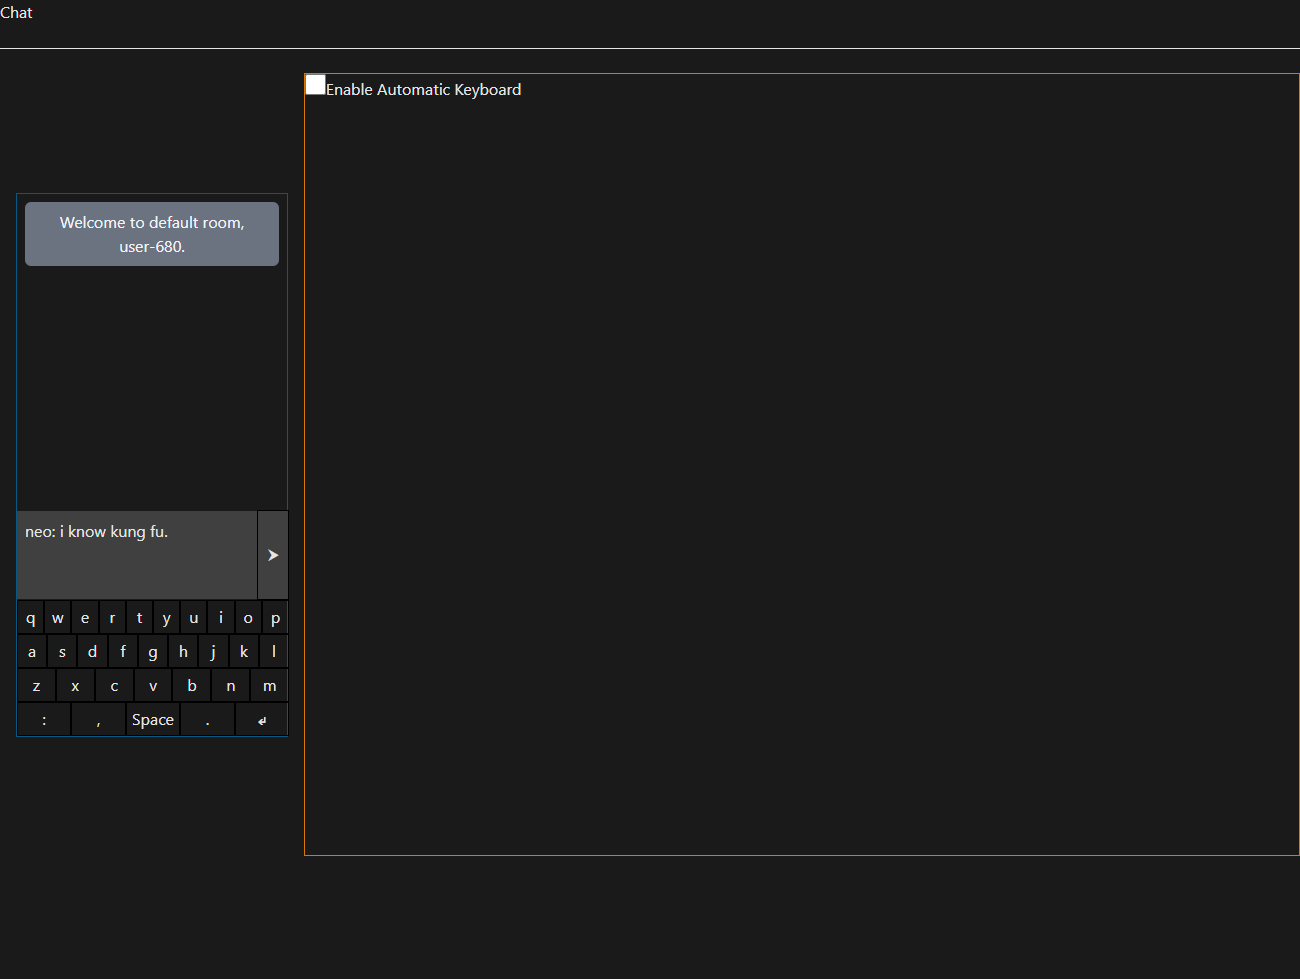
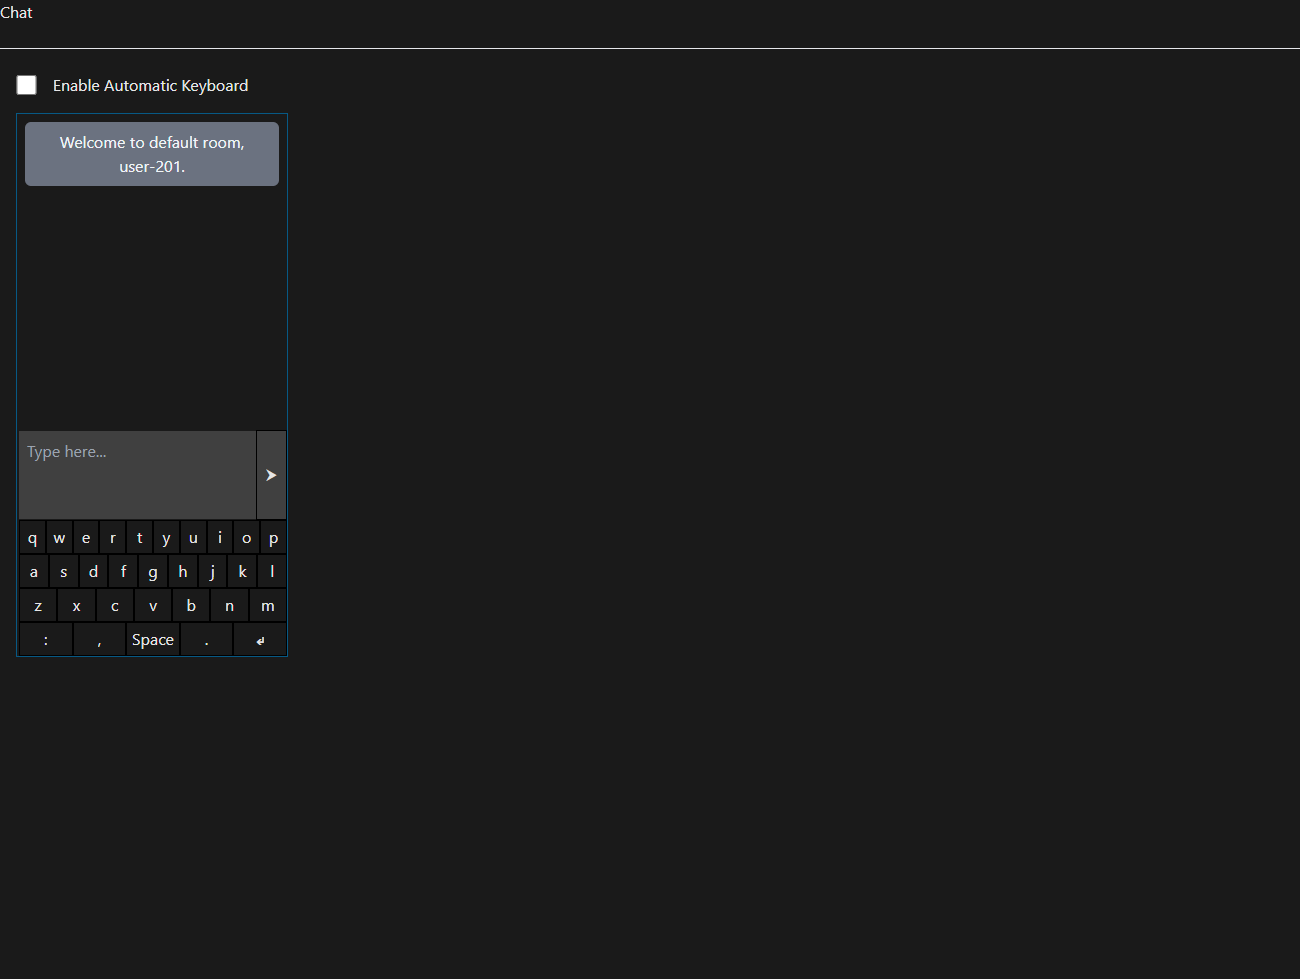
style: updated chat page style

diff --git a/client/src/pages/Chat/Chat.tsx b/client/src/pages/Chat/Chat.tsx
@@ -25,7 +25,7 @@ const Chat: FC<IChatProps> = (props) => {
   // ];
   const timeout = useRef<NodeJS.Timeout|null>(null);
   const firstRender = useRef({joinRoom:true});
-  // const { isAuto } = useSelector((state:RootState) => state.linkMock);
+  const { isAuto } = useSelector((state:RootState) => state.linkMock);
   const [ isConnected, setIsConnected ] = useState(false);
   const [ messageList, setMessageList ] = useState<IClientMessageData[]>([]);
   const [ onNewMessage, setOnNewMessage ] = useState(0);
@@ -275,7 +275,13 @@ const Chat: FC<IChatProps> = (props) => {
     <div>
       <p>Chat</p>
       <br /><hr /><br />
-      <div className={styles['chat-chart-container']}>
+      <div className={styles['checkbox-chat-container']}>
+
+        <div className={styles['checkbox-text']}>
+          <input type="checkbox" onChange={handleCheckbox} />
+          <span>Enable Automatic Keyboard</span>
+        </div>
+
         <div className={styles['chat-container']}>
           <Messages messageList={messageList} onNewMessage={onNewMessage} />
 
@@ -298,13 +304,6 @@ const Chat: FC<IChatProps> = (props) => {
             }
           </div>
 
-        </div>
-
-        <div className={styles['chart-container']}>
-            <div className={styles['checkbox-text']}>
-              <input type="checkbox" onChange={handleCheckbox} />
-              <span>Enable Automatic Keyboard</span>
-            </div>
         </div>
 
       </div>

diff --git a/client/src/pages/Chat/Chat.module.scss b/client/src/pages/Chat/Chat.module.scss
@@ -1,8 +1,6 @@
 @use '../../styles/App.scss' as *;
 
-.chat-chart-container {
-  @apply flex_space-between_center;
-}
+// COMMT: Go to client/src/styles/App.scss to see more sass codes...
 
 .chat-container {
   // COMMT: using direct function w/ dynamic params
@@ -10,10 +8,9 @@
 
   // COMMT: using tailwind @apply on sass loop + mixin;
   @apply flex_space-between_start; // tailwind + sass
+  flex-direction: column; // raw css
 
   @apply mx-4;
-  flex-direction: column; // raw css
-  // height: 100vh;
   height: 80vh;
   max-height: 34rem;
   width: $chat-width;
@@ -21,10 +18,10 @@
   @apply border border-sky-800;
 }
 
-.chart-container {
-  height: 80vh;
-  width: $chat-width;
-  @apply border border-amber-600;
+.checkbox-text {
+  margin: 0 1rem 1rem 1rem;
+  @apply flex_left_center;
+  gap: 1rem;
 }
 
 input[type="checkbox"] {

diff --git a/client/src/components/InputBtn/InputBtn.module.scss b/client/src/components/InputBtn/InputBtn.module.scss
@@ -6,8 +6,7 @@
 
 .input-btn-container {
   @apply flex_space-between_center;
-  // @apply p-2;
-  // width: 100%;
+  padding: 0 2px;
   width: $chat-width;
   max-width: $chat-max-width;
 
@@ -33,7 +32,7 @@
     @include input-btn;
     @apply border border-black;
     @apply cursor-pointer select-none;
-    height: 5.57rem;
+    height: 5.65rem;
     width: 4rem;
     background-color: hsl(0deg 0% 25%);
   }

diff --git a/client/src/components/Keyboard/Keyboard.module.scss b/client/src/components/Keyboard/Keyboard.module.scss
@@ -1,8 +1,7 @@
 @use '../../styles/App.scss' as *;
 
 .keyboard  {
-  display: flex;
+  @apply flex_space-between_center;
   flex-direction: column;
-  justify-content: space-between;
-  align-items: center;
+  padding: 0 2px;
 }
